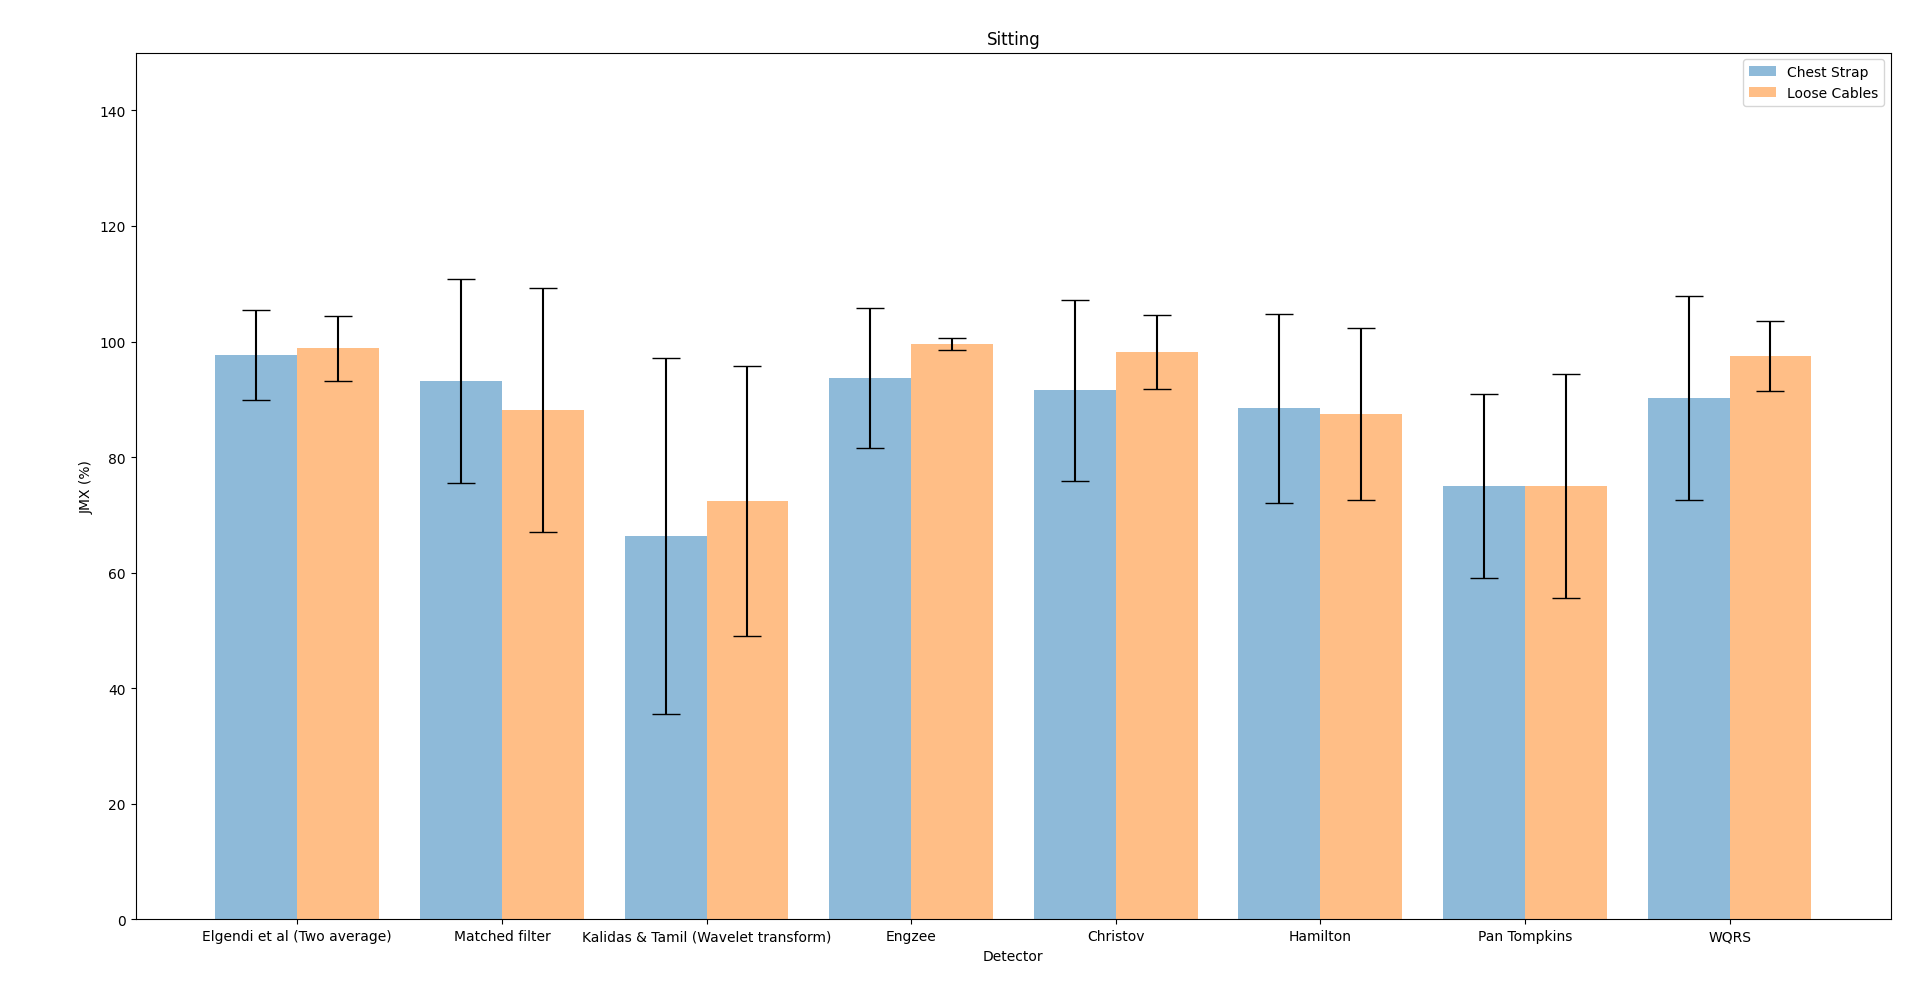
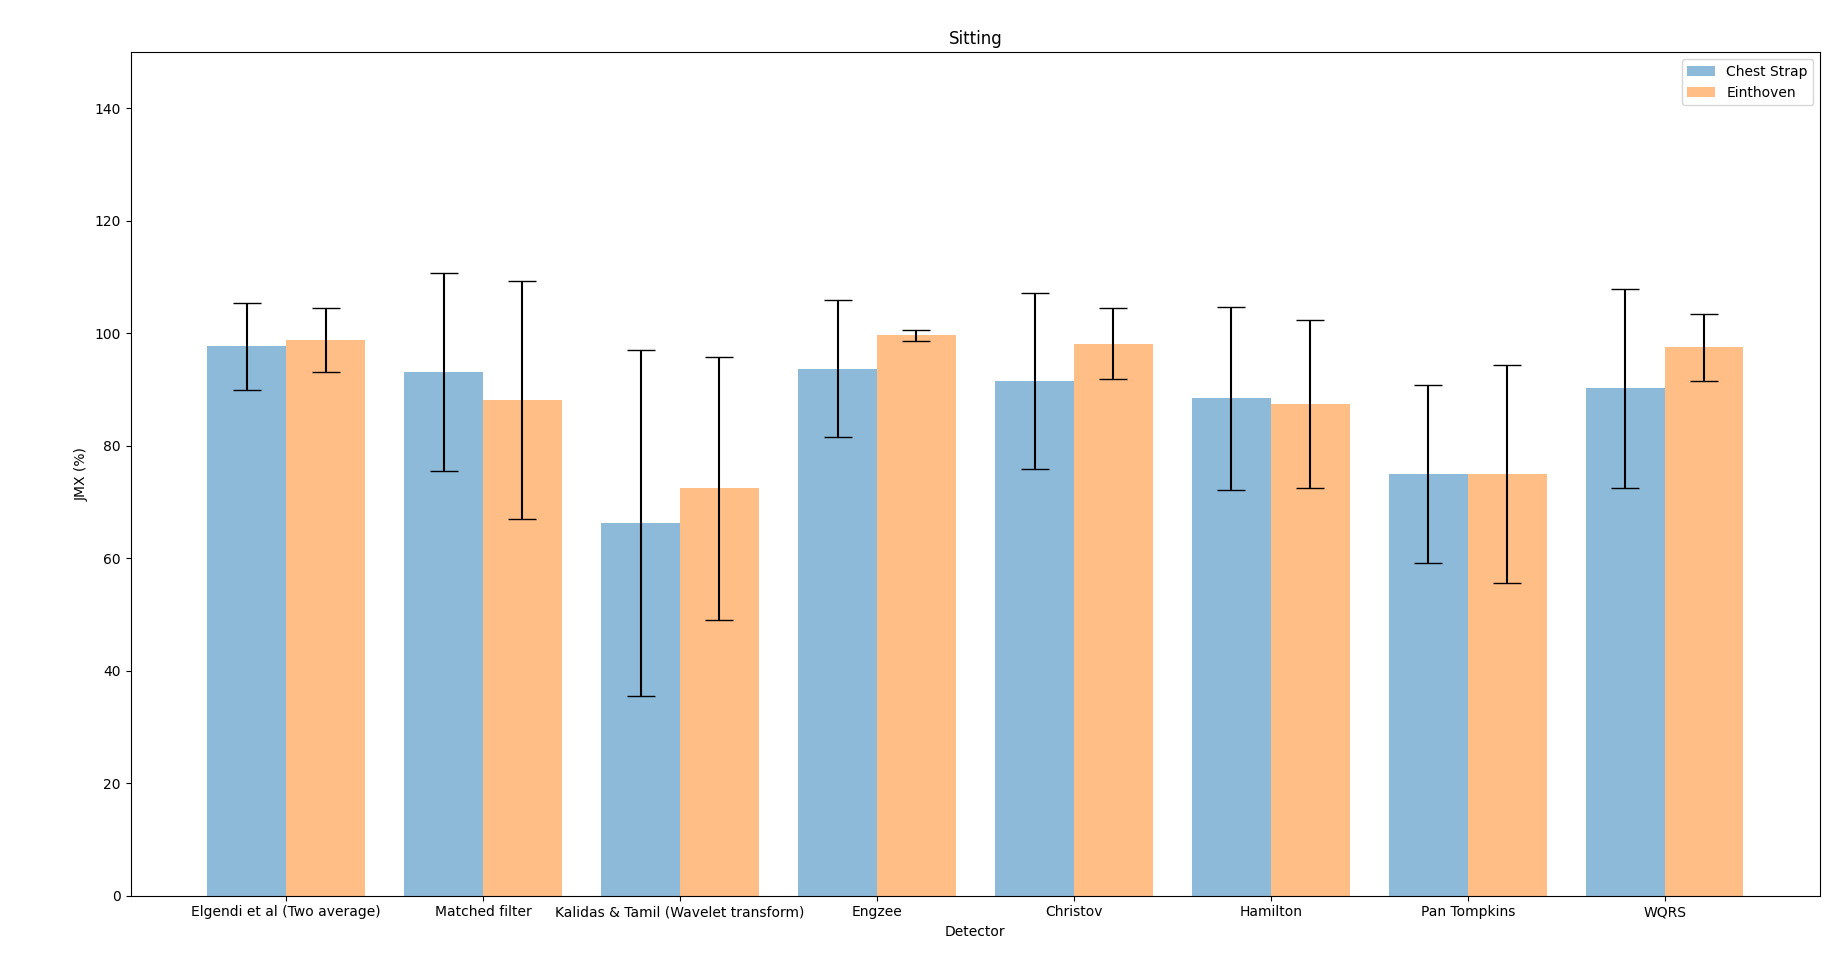
Changed loose cables to Einthoven

diff --git a/sensitivity_stats_plots.py b/sensitivity_stats_plots.py
@@ -68,11 +68,11 @@ cable_jogging_avg,gudb_cable_jogging_std = get_result(det_names, einth, 'jogging
 
 double_plot(cs_sitting_avg, gudb_cs_sitting_std,
             cable_sitting_avg, gudb_cable_sitting_std,
-            'Sensitivity (%)', 'Chest Strap', 'Loose Cables', 'Sitting')
+            'Sensitivity (%)', 'Chest Strap', 'Einthoven', 'Sitting')
 
 double_plot(cs_jogging_avg, gudb_cs_jogging_std,
             cable_jogging_avg, gudb_cable_jogging_std,
-            'Sensitivity (%)', 'Chest Strap', 'Loose Cables', 'Jogging')
+            'Sensitivity (%)', 'Chest Strap', 'Einthoven', 'Jogging')
 
 
 

diff --git a/jmx_stats_plots.py b/jmx_stats_plots.py
@@ -71,11 +71,11 @@ cable_jogging_avg,gudb_cable_jogging_std = get_result(det_names, einth, 'jogging
 
 double_plot(cs_sitting_avg, gudb_cs_sitting_std,
             cable_sitting_avg, gudb_cable_sitting_std,
-            'JMX (%)', 'Chest Strap', 'Loose Cables', 'Sitting')
+            'JMX (%)', 'Chest Strap', 'Einthoven', 'Sitting')
 
 double_plot(cs_jogging_avg, gudb_cs_jogging_std,
             cable_jogging_avg, gudb_cable_jogging_std,
-            'JMX (%)', 'Chest Strap', 'Loose Cables', 'Jogging')
+            'JMX (%)', 'Chest Strap', 'Einthoven', 'Jogging')
 
 
 

diff --git a/README.md b/README.md
@@ -21,18 +21,18 @@ ways errors show up in ECG heartbeat detection.
 
 ## Prerequisites
 
-Install py- ecg-detectors ([Howell and Porr, 2019](https://doi.org/10.5281/zenodo.3353396)).
+Install `py-ecg-detectors` ([Howell and Porr, 2019](https://doi.org/10.5281/zenodo.3353396)).
 
 Linux / Mac:
-```bash
+```
 pip3 install py-ecg-detectors [--user]
 ```
 Windows:
-```bash
+```
 pip install py-ecg-detectors [--user]
 ```
 From source:
-```bash
+```
 python3 setup.py install [--user]
 ```
 *Use the option --user if you don't have system-wise write permission.*
@@ -92,16 +92,19 @@ comparison for sitting and jogging.
 
 ![alt tag](jmx.png)
 
-# Traditional sensitivity analysis on a fixed temproal window
+# Traditional sensitivity analysis
 
-For sensitivity analysis on an `fs/10` sample long temporal window run:
+For a sensitivity analysis on an `fs/10` samples temporal window run:
 
 ```
-sensitivity_evaluate_all_detectors.py
-sensitivity_stats_plots.py
+python sensitivity_evaluate_all_detectors.py
+python sensitivity_stats_plots.py
 ```
 
 ![alt tag](sensitivity.png)
+
+Note that a pure sensitivity analysis on a wide temporal window
+yields mostly 99-100% sensitivity.
 
 # Credit
 
